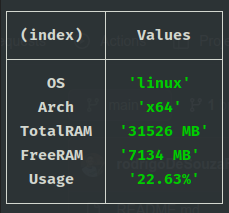
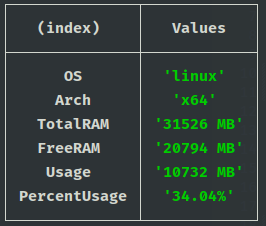
refatora e muda img do readme

diff --git a/pcRamUsage.js b/pcRamUsage.js
@@ -7,14 +7,17 @@ setInterval(() => {
 
   const tram = convertBytesToMegaBytes(totalmem()),
     fram = convertBytesToMegaBytes(freemem()),
-    usage = (fram / tram) * 100;
+    percentUsage = ((tram - fram) / tram) * 100,
+    usage = tram - fram;
 
   const stats = {
     OS: platform(),
     Arch: arch(),
     TotalRAM: `${tram} MB`,
     FreeRAM: `${fram} MB`,
-    Usage: `${usage.toFixed(2)}%`
+    Usage: `${usage} MB`,
+    PercentUsage: `${percentUsage.toFixed(2)}%`,
+    
   };
 
   console.clear()
